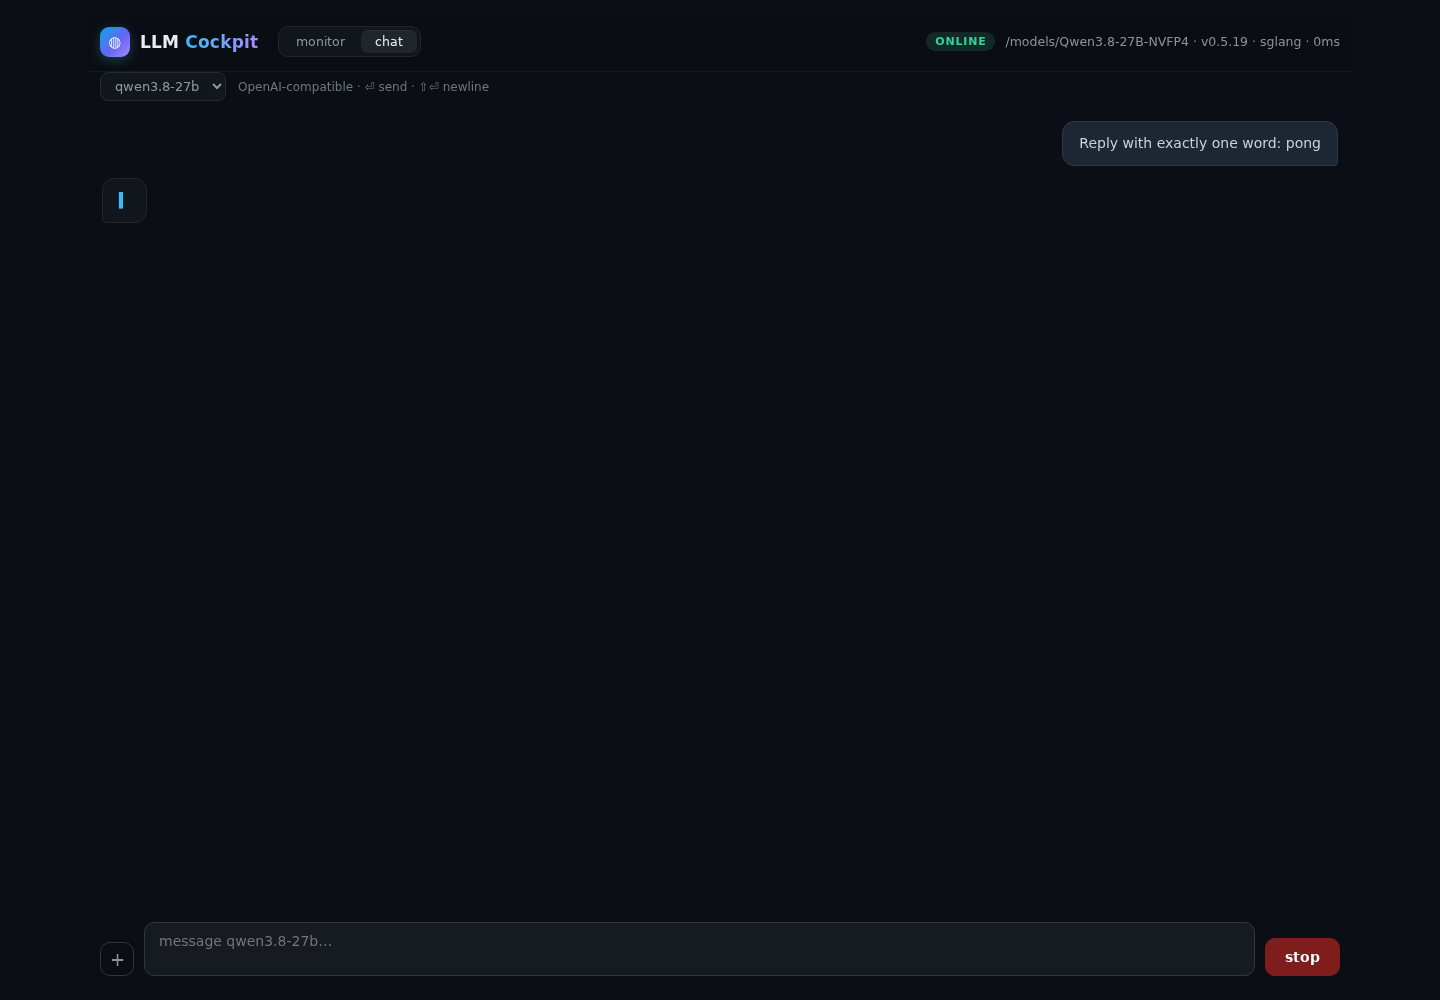
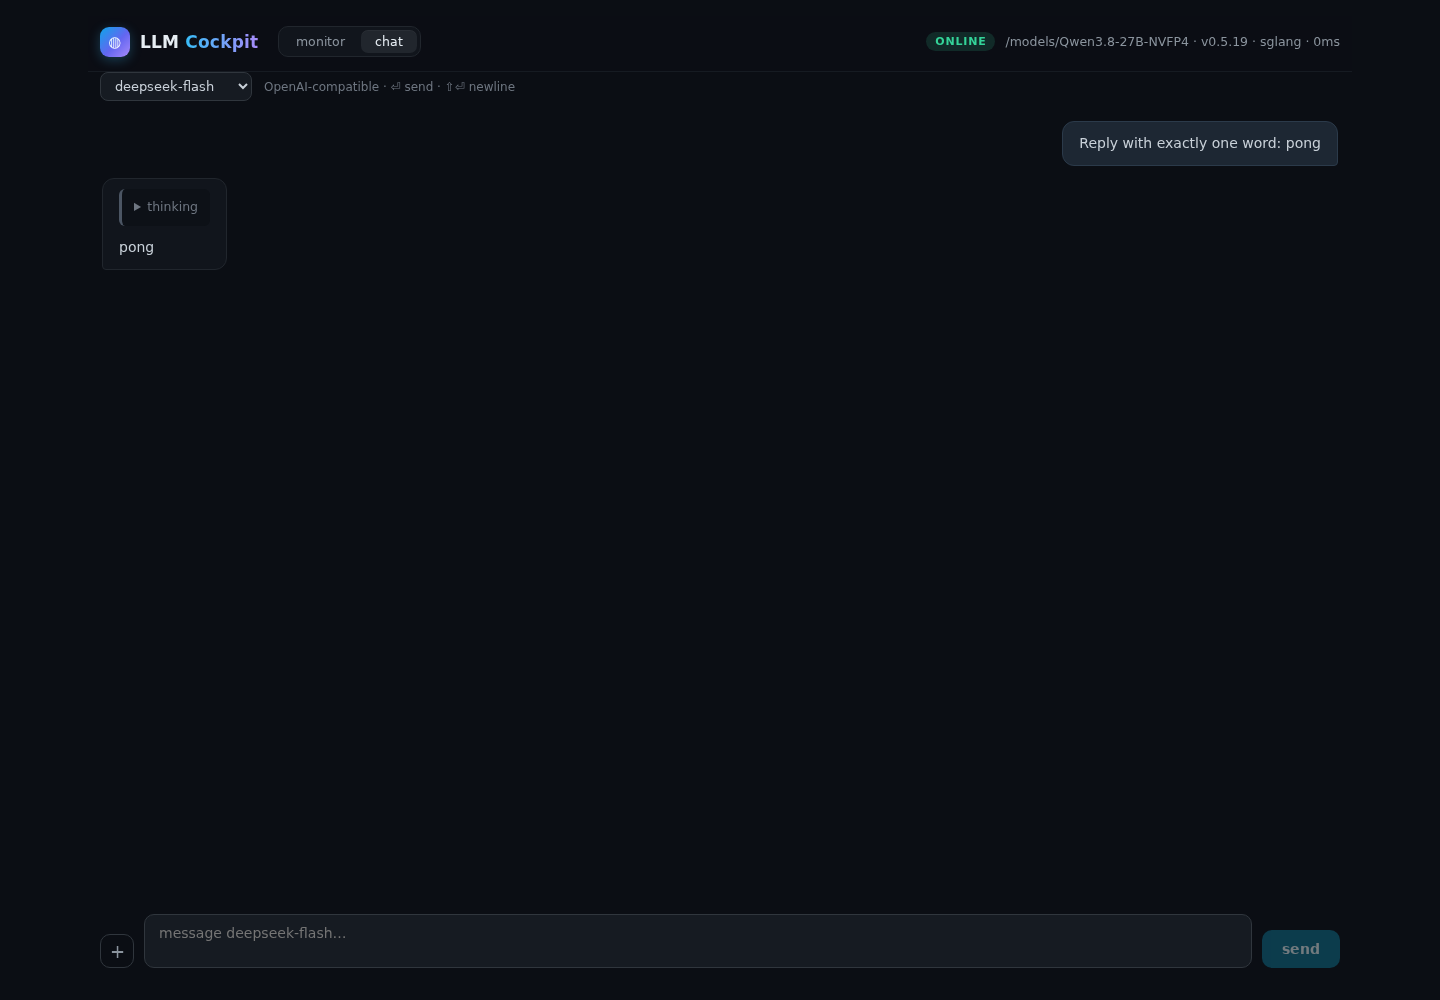
fix: page height drift under real-browser rendering — isolate chart layout + deterministic chat view height
- .chart: flex basis 0 + absolute-positioned echarts subtree; canvas px can
  no longer feed back into content height (structural isolation)
- chat view: replaced magic calc(100vh - 96px) with flex column chain
  (.wrap/.view/.chat), view now fits viewport exactly (no stray scrollbar)
- new permanent regression: scripts/qa-stability.mjs (dpr 1.5, tab toggles,
  viewport resizes; asserts per-(viewport,view) drift == 0); wired into
  CONTRIBUTING
- soak result: drift 0px over ~100s including tab/resize cycles

diff --git a/web/index.html b/web/index.html
@@ -18,6 +18,15 @@
         max-width: 1280px;
         margin: 0 auto;
         padding: 16px 20px 32px;
+        min-height: 100vh;
+        display: flex;
+        flex-direction: column;
+      }
+      .view {
+        flex: 1 1 auto;
+        display: flex;
+        flex-direction: column;
+        min-height: 0;
       }
       .hdr {
         display: flex;
@@ -122,10 +131,18 @@
         flex-direction: column;
       }
       .chart {
+        position: relative;
         width: 100%;
-        flex: 1 1 auto;
+        flex: 1 1 0px;
         min-height: 170px;
         margin-top: 8px;
+        overflow: hidden;
+      }
+      .chart > div {
+        position: absolute !important;
+        inset: 0 !important;
+        width: auto !important;
+        height: auto !important;
       }
       .card-title {
         font-size: 11px;
@@ -214,7 +231,7 @@
       .chat {
         display: flex;
         flex-direction: column;
-        height: calc(100vh - 96px);
+        flex: 1 1 auto;
         min-height: 480px;
       }
       .chat-msgs {

diff --git a/web/main.tsx b/web/main.tsx
@@ -812,7 +812,7 @@ function App() {
         </div>
       ) : null}
 
-      <div className={view === "monitor" ? undefined : "hidden"}>
+      <div className={`view${view === "monitor" ? "" : " hidden"}`}>
         <>
           <section className="grid4">
             <Card title="requests">
@@ -955,7 +955,7 @@ function App() {
           </section>
         </>
       </div>
-      <div className={view === "chat" ? undefined : "hidden"}>
+      <div className={`view${view === "chat" ? "" : " hidden"}`}>
         <Chat />
       </div>
     </div>
